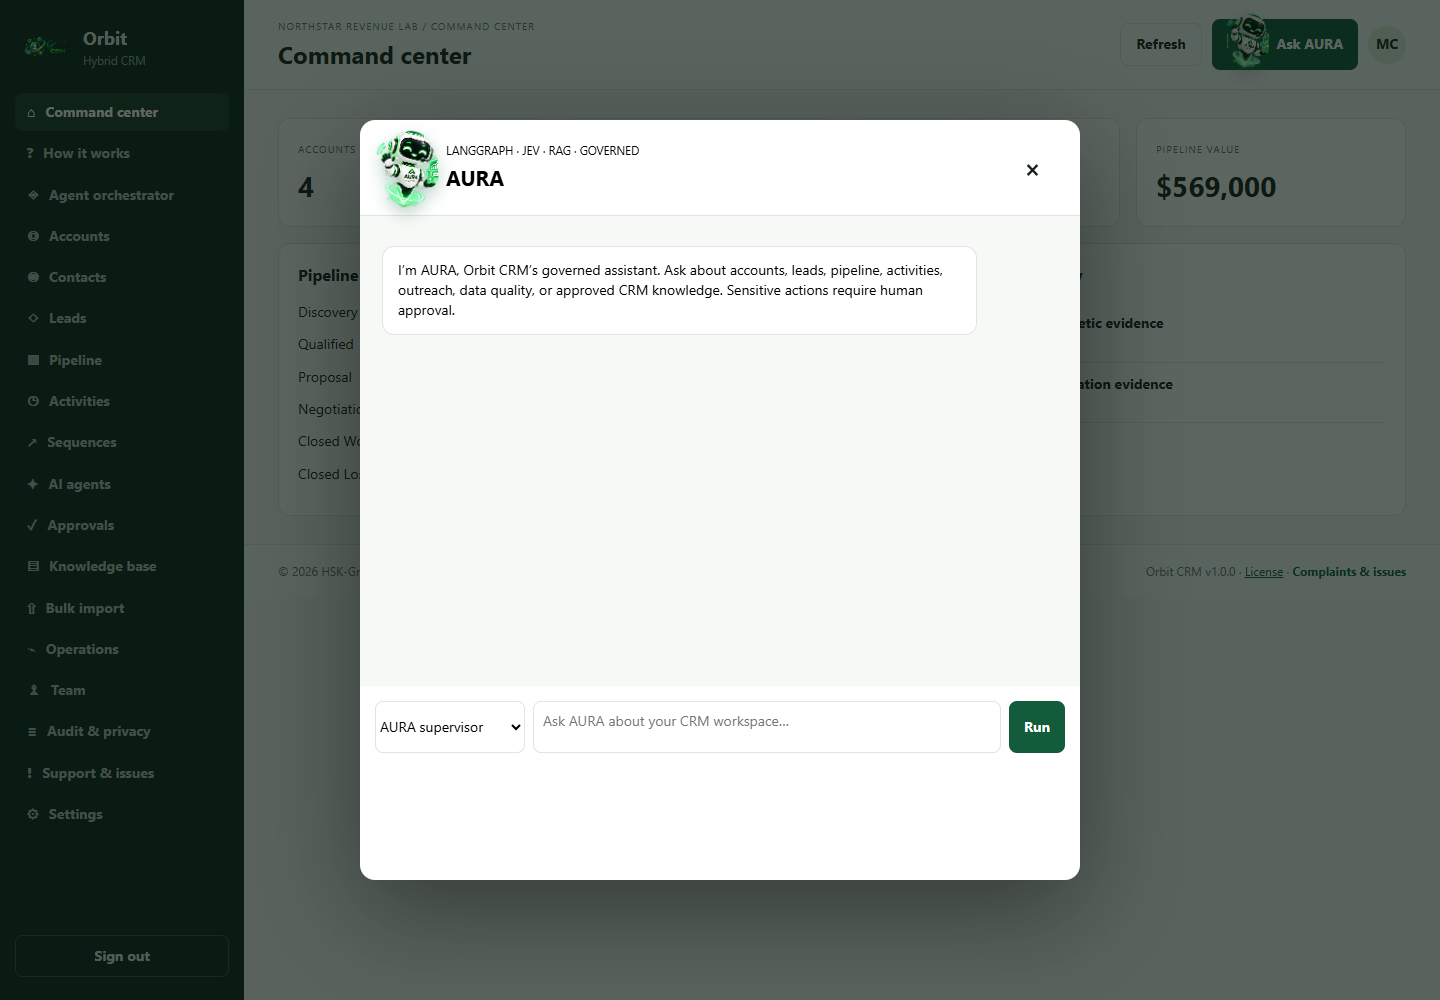
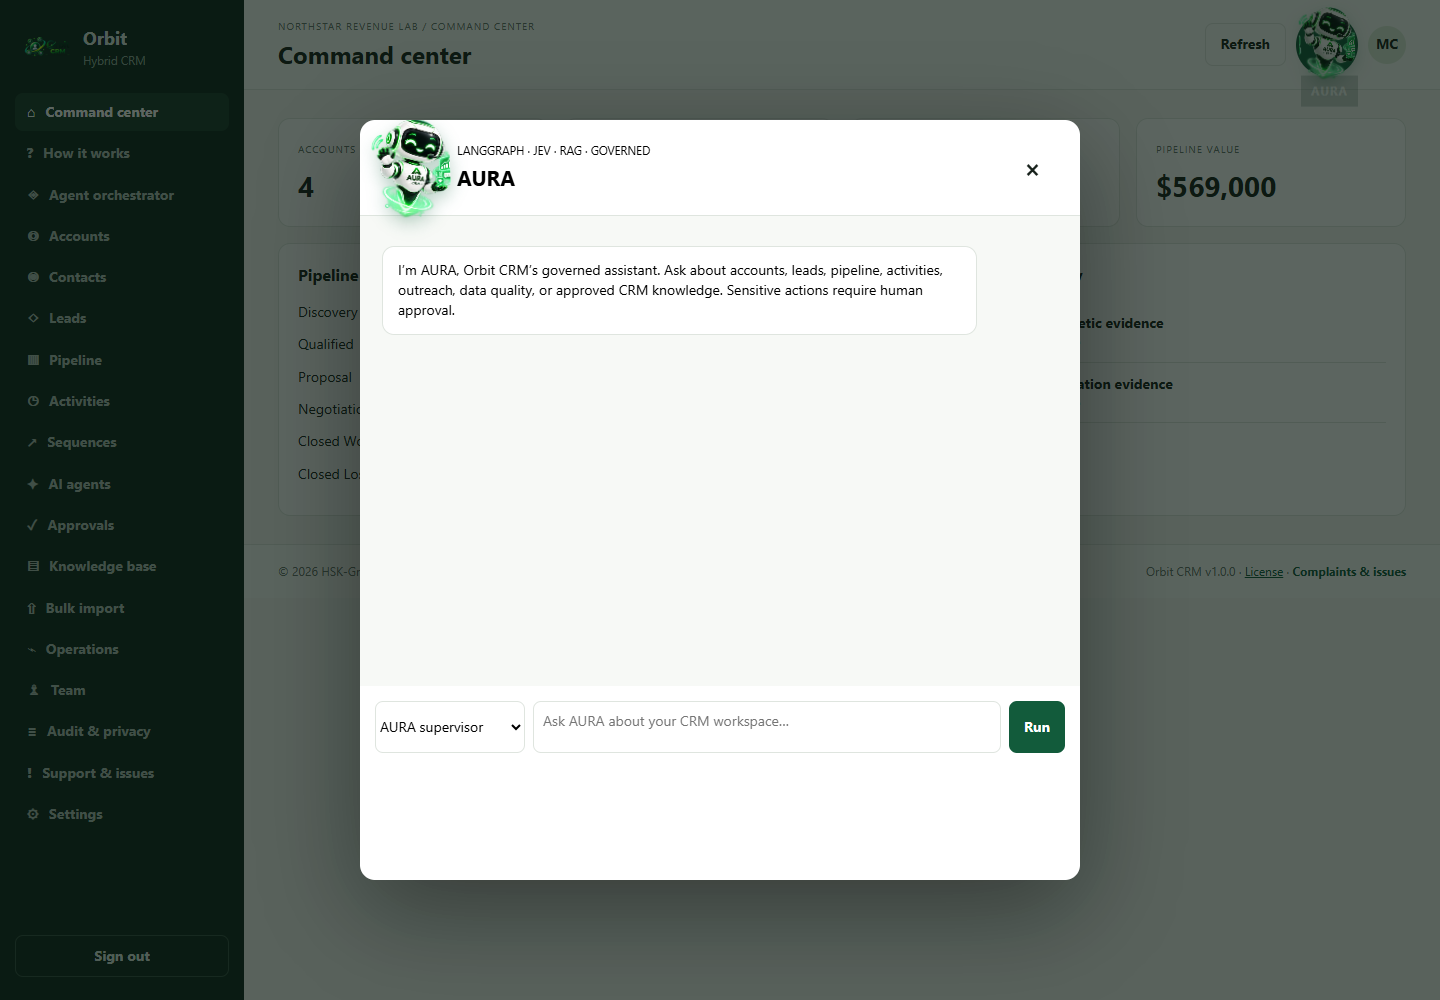
Use slower bot-only AURA launcher

Changed region(s): [[0.7812, 0.0, 0.9688, 0.093], [0.25, 0.124, 0.4375, 0.217]]

diff --git a/public/index.html b/public/index.html
@@ -1,5 +1,5 @@
 <!doctype html><html lang="en"><head><meta charset="UTF-8"><meta name="viewport" content="width=device-width,initial-scale=1"><title>Orbit CRM</title><link rel="stylesheet" href="/styles.css"><link rel="stylesheet" href="/auth.css"><link rel="stylesheet" href="/brand.css"><link rel="stylesheet" href="/ai-pets.css"></head>
 <body><div id="auth" class="auth"><div class="auth-card"><img class="auth-logo" src="/brand/orbit-crm-logo.png" alt="Orbit CRM"><h1>Orbit CRM</h1><p id="authSubtitle">Agentic intelligence. Deterministic control.</p><form id="loginForm"><div id="signupFields" class="hidden"><label>Workspace name<input name="organizationName" autocomplete="organization"></label><label>Your name<input name="displayName" autocomplete="name"></label></div><label>Email<input name="email" type="email" autocomplete="email" required></label><label>Password<div class="password-field"><input name="password" type="password" autocomplete="current-password" minlength="10" required><button type="button" class="show-password" aria-label="Show password">Show</button></div></label><button id="authSubmit">Sign in</button><small id="authError"></small></form><button id="authMode" class="auth-switch" type="button">New here? Create an account</button></div></div>
-<div id="shell" class="shell hidden"><aside><div class="brand"><img src="/brand/orbit-crm-logo.png" alt=""><div><strong>Orbit</strong><small>Hybrid CRM</small></div></div><nav id="nav"></nav><div class="aside-foot"><button id="logout" class="quiet">Sign out</button></div></aside><main><header><div><small id="crumb">Workspace</small><h1 id="title">Command center</h1></div><div class="header-actions"><button id="refresh" class="quiet">Refresh</button><button id="askAgent" class="aura-launch"><span class="aura-pet" aria-hidden="true"><i></i></span>Ask AURA</button><div class="avatar" id="avatar">AI</div></div></header><section id="content"></section><footer class="app-footer"><span>© 2026 HSK-Group · Product of HSK-Group</span><span>Orbit CRM v1.0.0 · <a href="/license.txt" target="_blank">License</a> · <button data-footer-page="support">Complaints & issues</button></span></footer></main></div>
+<div id="shell" class="shell hidden"><aside><div class="brand"><img src="/brand/orbit-crm-logo.png" alt=""><div><strong>Orbit</strong><small>Hybrid CRM</small></div></div><nav id="nav"></nav><div class="aside-foot"><button id="logout" class="quiet">Sign out</button></div></aside><main><header><div><small id="crumb">Workspace</small><h1 id="title">Command center</h1></div><div class="header-actions"><button id="refresh" class="quiet">Refresh</button><button id="askAgent" class="aura-launch" aria-label="Open AURA assistant" data-label="AURA"><span class="aura-pet" aria-hidden="true"><i></i></span></button><div class="avatar" id="avatar">AI</div></div></header><section id="content"></section><footer class="app-footer"><span>© 2026 HSK-Group · Product of HSK-Group</span><span>Orbit CRM v1.0.0 · <a href="/license.txt" target="_blank">License</a> · <button data-footer-page="support">Complaints & issues</button></span></footer></main></div>
 <dialog id="agentDialog"><form method="dialog" class="dialog-head"><span class="aura-pet large" aria-hidden="true"><i></i></span><div><small>LANGGRAPH · JEV · RAG · GOVERNED</small><h2>AURA</h2></div><button aria-label="Close">×</button></form><div id="chat" class="chat"><div class="assistant-msg">I’m AURA, Orbit CRM’s governed assistant. Ask about accounts, leads, pipeline, activities, outreach, data quality, or approved CRM knowledge. Sensitive actions require human approval.</div></div><form id="agentForm" class="composer"><select name="agentType"><option value="auto">AURA supervisor</option><option value="assistant">AURA CRM assistant</option><option value="qualification">Lead qualification</option><option value="research">Account research</option><option value="pipeline">Pipeline risk</option><option value="email">Email drafting</option><option value="data_quality">Data quality</option><option value="mcp">MCP tool agent</option></select><textarea name="objective" maxlength="2000" placeholder="Ask AURA about your CRM workspace…" required></textarea><button>Run</button></form></dialog>
 <script type="module" src="/app.js"></script></body></html>

diff --git a/public/ai-pets.css b/public/ai-pets.css
@@ -1,1 +1,1 @@
-.aura-launch{display:flex;align-items:center;gap:8px}.dialog-head{align-items:center;justify-content:flex-start}.dialog-head>button{margin-left:auto}.aura-pet{width:56px;height:73px;display:inline-block;flex:0 0 auto;position:relative;margin:-22px -5px -20px -8px;animation:aura-sway 3.2s ease-in-out infinite;filter:drop-shadow(0 7px 8px rgba(7,91,54,.28))}.aura-pet.large{width:78px;height:101px;margin:-29px 7px -28px -12px}.aura-pet i{position:absolute;inset:0;background:url('/brand/aura-sprite-v2.png') 0 0/800% 100% no-repeat;animation:aura-frames 1.45s steps(7) infinite}.aura-pet.thinking i{animation-duration:.75s;filter:drop-shadow(0 0 9px #8dff87)}@keyframes aura-frames{to{background-position:100% 0}}@keyframes aura-sway{0%,100%{transform:translateY(1px) rotate(-2deg)}50%{transform:translateY(-4px) rotate(2deg)}}@media(prefers-reduced-motion:reduce){.aura-pet,.aura-pet i{animation:none}.aura-pet i{background-position:0 0}}
+.aura-launch{width:62px;height:62px;padding:0;display:grid;place-items:center;position:relative;border-radius:50%;overflow:visible}.aura-launch::after{content:attr(data-label);position:absolute;right:0;top:68px;padding:7px 10px;background:#0d3025;color:white;font-size:12px;letter-spacing:.08em;opacity:0;transform:translateY(-8px);pointer-events:none;transition:.2s;white-space:nowrap}.aura-launch:hover::after,.aura-launch:focus-visible::after{opacity:1;transform:none}.dialog-head{align-items:center;justify-content:flex-start}.dialog-head>button{margin-left:auto}.aura-pet{width:56px;height:73px;display:inline-block;flex:0 0 auto;position:relative;margin:-6px 0;animation:aura-sway 7s ease-in-out infinite;filter:drop-shadow(0 7px 8px rgba(7,91,54,.28))}.aura-pet.large{width:78px;height:101px;margin:-29px 7px -28px -12px}.aura-pet i{position:absolute;inset:0;background:url('/brand/aura-sprite-v2.png') 0 0/800% 100% no-repeat;animation:aura-frames 4.8s steps(7) infinite}.aura-pet.thinking i{animation-duration:2.4s;filter:drop-shadow(0 0 9px #8dff87)}@keyframes aura-frames{to{background-position:100% 0}}@keyframes aura-sway{0%,100%{transform:translateY(1px) rotate(-2deg)}50%{transform:translateY(-4px) rotate(2deg)}}@media(prefers-reduced-motion:reduce){.aura-pet,.aura-pet i{animation:none}.aura-pet i{background-position:0 0}}
